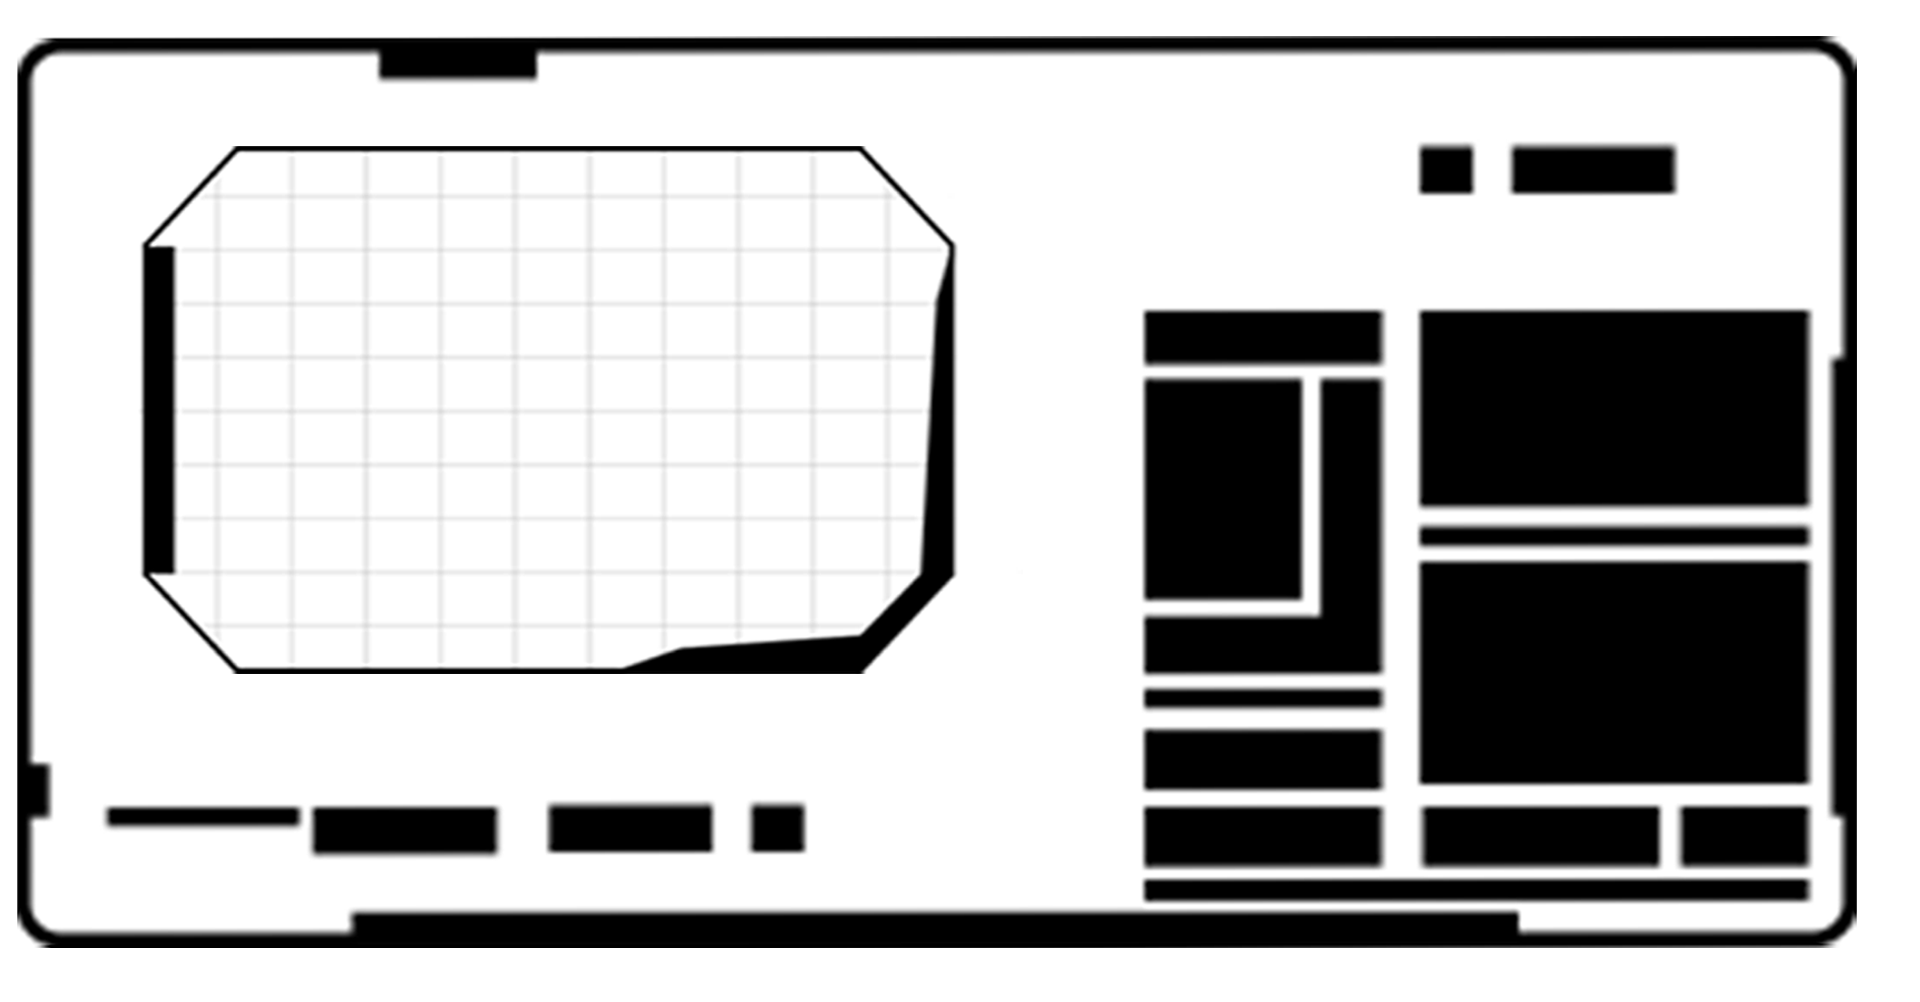
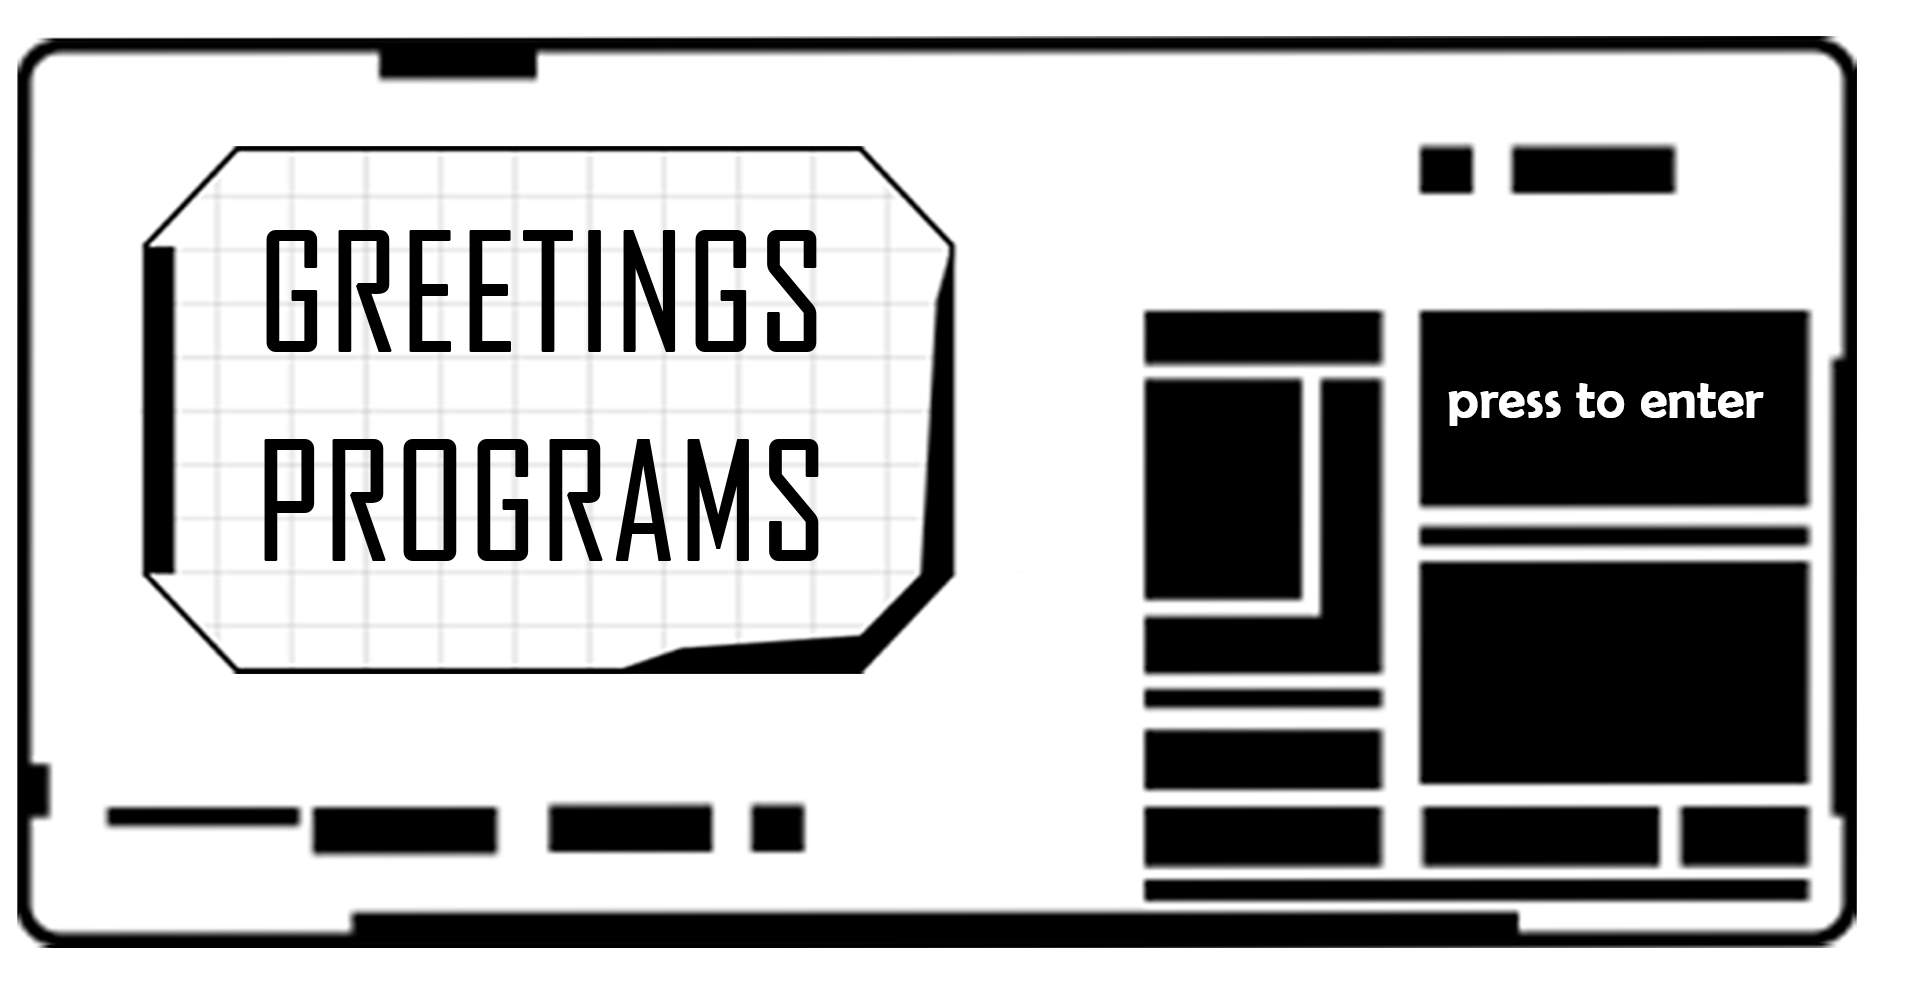
delete gh-pages branch

Changed region(s): [[0.125, 0.2166, 0.4375, 0.3713], [0.125, 0.4331, 0.4375, 0.5569], [0.75, 0.3713, 0.9375, 0.4331]]

diff --git a/css/styles.css b/css/styles.css
@@ -22,7 +22,6 @@ body {
 }
 
 #enter {
-  background-color: snow;
   position: absolute;
   left: 1430px;
   top: 330px;
@@ -32,7 +31,6 @@ body {
 }
 
 #darkMode {
-  background-color: snow;
   position: absolute;
   left: 1430px;
   top: 590px;

diff --git a/index.html b/index.html
@@ -16,8 +16,5 @@
       
       <a href="DmHome.html" type="button"  id="darkMode">DARK MODE HOME</a> 
     </div>
-    <div class="greeting"> 
-      <img src="assets/greetings.png" alt="greetings_programs">
-    </div> 
   </div>
 </html>
